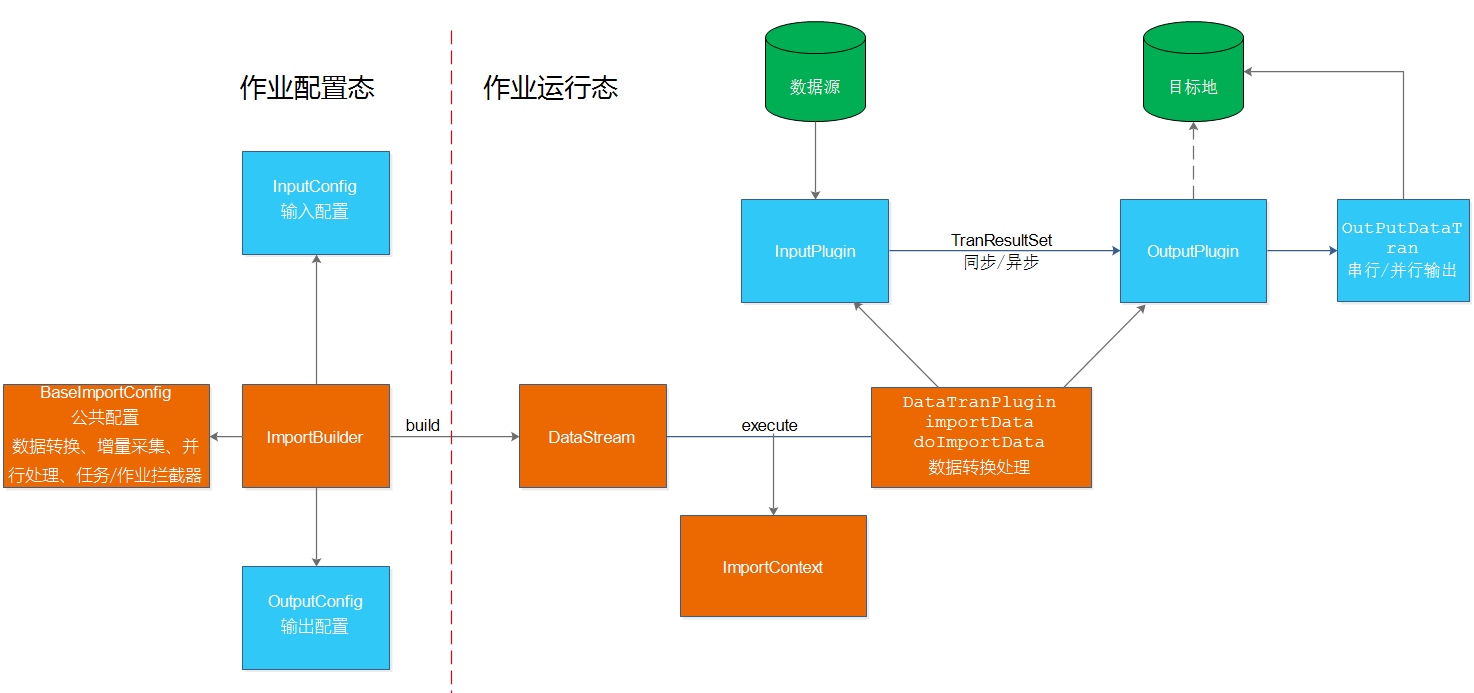
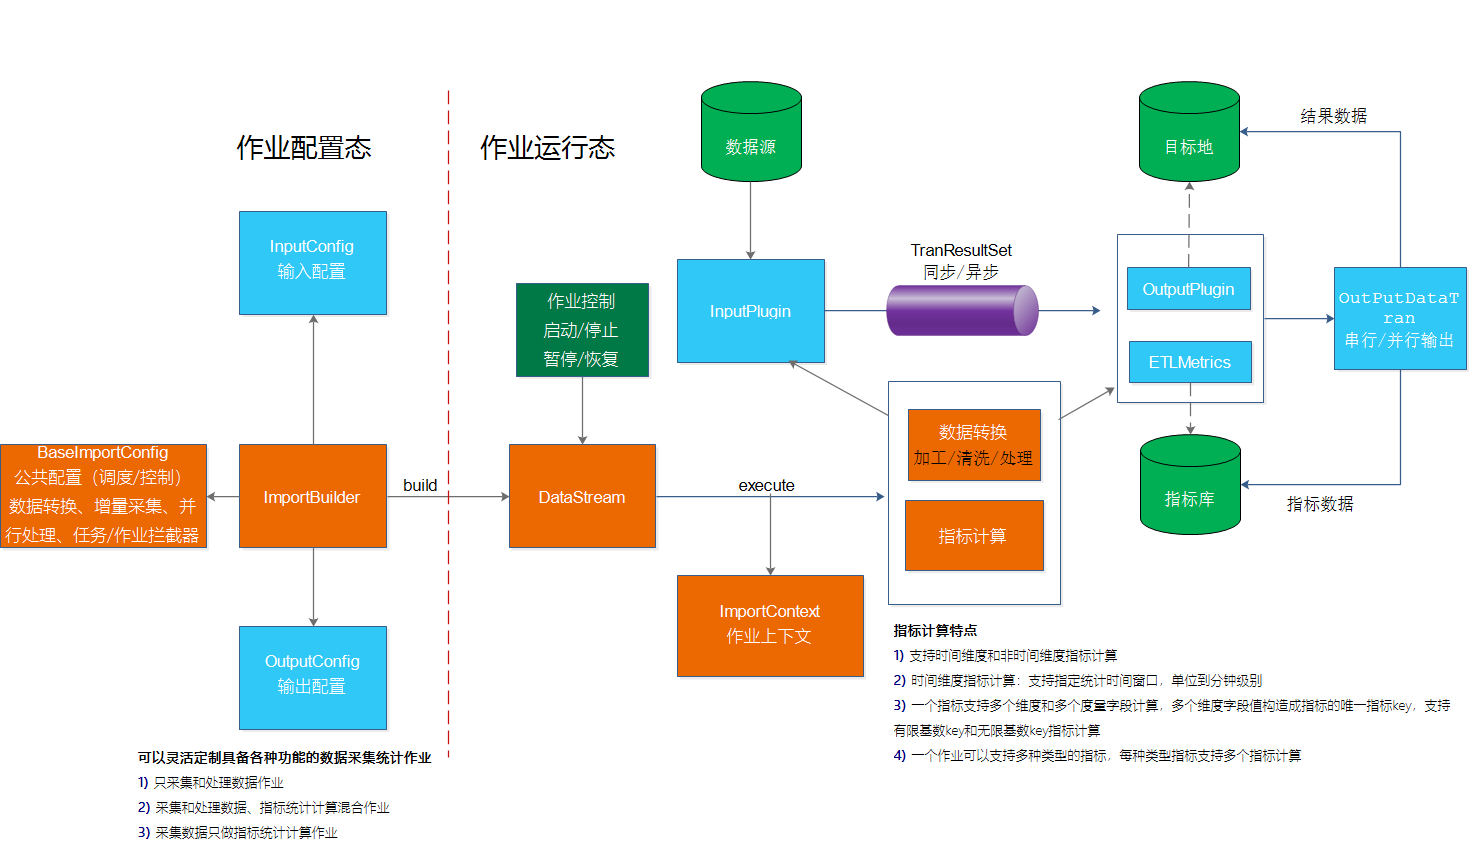
完善批处理器：还原jvm退出时shutdown processor，-----需要使用应用自行管理processor关闭功能 改进指标计算插件

diff --git a/bboss-elasticsearch-rest/src/main/java/org/frameworkset/elasticsearch/bulk/BulkProcessor.java b/bboss-elasticsearch-rest/src/main/java/org/frameworkset/elasticsearch/bulk/BulkProcessor.java
@@ -19,6 +19,7 @@ import org.frameworkset.elasticsearch.ElasticSearchHelper;
 import org.frameworkset.elasticsearch.client.ClientInterface;
 import org.frameworkset.elasticsearch.client.ClientOptions;
 import org.frameworkset.util.concurrent.ThreadPoolFactory;
+import org.frameworkset.util.shutdown.ShutdownUtil;
 import org.slf4j.Logger;
 import org.slf4j.LoggerFactory;
 
@@ -107,12 +108,12 @@ public class BulkProcessor {
                 flush = new Flush("Elasticsearch[" + (bulkConfig.getElasticsearch() != null ? bulkConfig.getElasticsearch() : "default") + "]-" + bulkConfig.getBulkProcessorName() + "-flush-thread");
                 flush.start();
             }
-//            ShutdownUtil.addShutdownHook(new Runnable() {
-//                @Override
-//                public void run() {
-//                    shutDown();
-//                }
-//            });
+            ShutdownUtil.addShutdownHook(new Runnable() {
+                @Override
+                public void run() {
+                    shutDown();
+                }
+            });
             this.inited = true;
         }
 	}

diff --git a/docs/db-es-tool.md b/docs/db-es-tool.md
@@ -14,13 +14,34 @@
 
 # 工具特性
 
-	bboss-datatran由 [bboss ](https://www.bbossgroups.com)开源的数据采集同步ETL工具，提供数据采集、数据清洗转换处理和数据入库功能。	bboss-datatran 数据同步作业直接采用java语言开发，小巧而精致，同时又可以采用java提供的所有功能和现有组件框架，随心所欲地处理和加工海量存量数据、实时增量数据；可以根据数据规模及同步性能要求，按需配置和调整数据采集同步作业所需内存、工作线程、线程队列大小；可以将作业独立运行，亦可以将作业嵌入基于java开发的各种应用一起运行；提供了作业任务控制API、作业监控api，支持作业启动、暂停(pause)、继续（resume）、停止控制机制，可轻松定制一款属于自己的ETL管理工具。
+	bboss-datatran由 [bboss ](https://www.bbossgroups.com)开源的数据采集同步ETL工具，提供数据采集、数据清洗转换处理和数据入库以及数据指标统计计算流批一体化处理功能。	
+
+	bboss-datatran 数据同步作业直接采用java语言开发，小巧而精致，同时又可以采用java提供的所有功能和现有组件框架，随心所欲地处理和加工海量存量数据、实时增量数据，实现流批一体数据处理功能；可以根据数据规模及同步性能要求，按需配置和调整数据采集同步作业所需内存、工作线程、线程队列大小；可以将作业独立运行，亦可以将作业嵌入基于java开发的各种应用一起运行；提供了作业任务控制API、作业监控api，支持作业启动、暂停(pause)、继续（resume）、停止控制机制，可轻松定制一款属于自己的ETL管理工具。
+
+工具可以灵活定制具备各种功能的数据采集统计作业
+
+1) 只采集和处理数据作业
+
+2) 采集和处理数据、指标统计计算混合作业
+
+3) 采集数据只做指标统计计算作业
+
+指标计算特点
+
+1) 支持时间维度和非时间维度指标计算
+
+2) 时间维度指标计算：支持指定统计时间窗口，单位到分钟级别
+
+3) 一个指标支持多个维度和多个度量字段计算，多个维度字段值构造成指标的唯一指标key，支持有限基数key和无限基数key指标计算   
+
+4) 一个作业可以支持多种类型的指标，每种类型指标支持多个指标计算
 
 如果您还在：
 
 - 苦于 logstash、flume、filebeat 之类的开源工具无法满足复杂的、海量数据自定义加工处理场景；
 - 苦于无法调用企业现有服务和库来处理加工数据；
 - 苦于因项目投入有限、进度紧，急需一款功能强大、上手快、实施简单的数据交换工具
+- 苦于寻求数据采集和流批一体数据处理和指标统计计算于一体的数据处理计算框架
 
 那么 [bboss-datatran](http://www.oschina.net/action/GoToLink?url=https%3A%2F%2Fesdoc.bbossgroups.com%2F%23%2Fdb-es-tool) 将是一个不错的选择。
 
@@ -113,6 +134,7 @@ https://gitee.com/bboss/db-elasticsearch-tool
 | [CustomOupputConfig](https://gitee.com/bboss/bboss-elastic-tran/blob/master/bboss-datatran-core/src/main/java/org/frameworkset/tran/plugin/custom/output/CustomOupputConfig.java) | 自定义输出插件        | 提供自定义处理采集数据功能，可以按照自己的要求将采集的数据处理到目的地，如需定制化将数据保存到特定的地方，可自行实现CustomOutPut接口处理即可 |
 | [MongoDBOutputConfig](https://gitee.com/bboss/bboss-elastic-tran/blob/master/bboss-datatran-mongodb/src/main/java/org/frameworkset/tran/plugin/mongodb/output/MongoDBOutputConfig.java) | MongoDB输出插件       | 提供MongoDB地址和连接参数配置，输出db和collection配置        |
 | [HBaseOutputConfig](https://gitee.com/bboss/bboss-elastic-tran/blob/master/bboss-datatran-hbase/src/main/java/org/frameworkset/tran/plugin/hbase/output/HBaseOutputConfig.java) | HBase输出插件         | HBase地址和连接参数配置，hbase输出表配置，hbase列簇和列及对应的源字段映射配置 |
+| [MetricsOutputConfig](https://gitee.com/bboss/bboss-elastic-tran/blob/master/bboss-datatran-core/src/main/java/org/frameworkset/tran/plugin/metrics/output/MetricsOutputConfig.java) | 指标统计插件          | 提供指标计算规则配置：ETLMetrics、时间维度字段配置等         |
 | [DummyOutputConfig](https://gitee.com/bboss/bboss-elastic-tran/blob/master/bboss-datatran-core/src/main/java/org/frameworkset/tran/plugin/dummy/output/DummyOutputConfig.java) | dummy插件             | 调试作业使用，将采集的数据直接输出到控制台                   |
 
 ## 作业基础配置
@@ -134,8 +156,8 @@ importBuilder.setJobName("流失数据挖掘");
 | addJobDynamicInputParam  | 方法                | 为查询类作业添加额外的动态查询条件参数importBuilder.addJobDynamicInputParam("signature", new DynamicParam() {//根据数据动态生成签名参数    @Override    public Object getValue(String paramName, DynamicParamContext dynamicParamContext) {        //可以根据自己的算法对数据进行签名       String signature =md5(datas)       return signature;    } }); |
 | addJobOutputParam        | 方法                | 为输出插件作业dsl脚本或者sql添加额外的变量参数importBuilder.addJobOutputParam("otherParam","陈雨菲2:0战胜戴资颖"); |
 | addJobDynamicOutputParam | 方法                | 为输出插件作业dsl脚本或者sql添加额外的动态变量参数importBuilder.addJobDynamicOutputParam("signature", new DynamicParam() {//根据数据动态生成签名参数    @Override    public Object getValue(String paramName, DynamicParamContext dynamicParamContext) {        //可以根据自己的算法对数据进行签名       String signature =md5(datas)       return signature;    } }); |
-| UseJavaName              | boolean             | 可选项,将数据库字段名称转换为java驼峰规范的名称，true转换，false不转换，默认false，例如:doc_id -> docId |
-| UseLowcase               | boolean             | 可选项，true 列名称转小写，false列名称不转换小写，默认false，只要在UseJavaName为false的情况下，配置才起作用 |
+| useJavaName              | boolean             | 可选项,将数据库字段名称转换为java驼峰规范的名称，true转换，false不转换，默认false，例如:doc_id -> docId |
+| useLowcase               | boolean             | 可选项，true 列名称转小写，false列名称不转换小写，默认false，只要在UseJavaName为false的情况下，配置才起作用 |
 | PrintTaskLog             | boolean             | 可选项，true 打印任务执行日志（耗时，处理记录数） false 不打印，默认值false |
 | FixedRate                | boolean             | 参考jdk timer task文档对fixedRate的说明                      |
 | DeyLay                   | long                | 任务延迟执行deylay毫秒后执行                                 |
@@ -162,6 +184,16 @@ importBuilder.setJobName("流失数据挖掘");
 | builder                  | 方法                | 构建DataStream 执行数据库表数据导入es操作  ： DataStream dataStream = importBuilder.builder(); dataStream.execute();//执行导入操作 |
 | jobId                    | String              | 可选，设置作业唯一标识                                       |
 | jobName                  | String              | 可选，设置作业名称                                           |
+
+## 关键对象说明
+
+Context --数据处理接口，存放源表字段和对应的值，中间临时变量和值，可以通过源表字段名称获取对应的字段数据。增量字段名称、sql或者dsl中的增量字段变量名称，都需与源表字段名称一致。context接口还提供了丢弃记录、添加字段、去除字段、字段名称映射规则配置功能、获取记录元数据功能
+
+CommonRecord - 封装处理后的结果记录，字段名称是经过规范化处理后的字段名称，字段名称的转换和处理主要受作业控制参数useJavaName和useLowcase控制，同时也受字段名称映射规则配置影响:
+
+importbuilder.addFieldMapping方法和context.addFieldMapping
+
+
 
 本文主要以关系数据库表同步到Elasticsearch为案例介绍bboss datatran的功能.
 

diff --git a/docs/changelog.md b/docs/changelog.md
@@ -45,20 +45,32 @@ https://esdoc.bbossgroups.com/#/development
 ```
 # v6.8.1 功能改进
 1. FTP文件[输入](https://esdoc.bbossgroups.com/#/filelog-guide?id=_7ftp%e9%87%87%e9%9b%86%e9%85%8d%e7%bd%ae)/[输出](https://esdoc.bbossgroups.com/#/elasticsearch-sftp?id=_34-sftpftp%e9%85%8d%e7%bd%ae)插件改进：ftp/sftp协议增加socketTimeout配置，sftp协议增加connectionTimeout配置
+
 2. FTP输出插件改进：增加生成文件[异常上传FTP机制](https://esdoc.bbossgroups.com/#/elasticsearch-sftp?id=_34-sftpftp%e9%85%8d%e7%bd%ae)，默认同步发送。数据量比较多，同时切割文件的情况下，启用异步发送文件，会显著提升数据采集同步性能
+
 3. 数据采集重大功能扩展：增加指标计算输出插件，提供指标统计分析功能，在采集和处理数据时，同时对数据进行大数据指标统计聚合计算，可以将聚合计算结果保存的各种指标数据库：Eleasticsearch/Mongodb/HBase/Clickhouse/Doris/DB(Oracle、Mysql、postgresql、sqlserver等主流关系数据库)
    
+   
+   
    可以灵活定制具备各种功能的数据采集统计作业
+   
    1) 只采集和处理数据作业
+   
    2) 采集和处理数据、指标统计计算混合作业
+   
    3) 采集数据只做指标统计计算作业
    
-   指标计算特点
-   1) 支持时间维度和非时间维度指标计算
-   2) 时间维度指标计算：支持指定统计时间窗口，单位到分钟级别
-   3) 一个指标支持多个维度和多个度量字段计算，多个维度字段值构造成指标的唯一指标key，支持有限基数key和无限基数key指标计算   
-   4) 一个作业可以支持多种类型的指标，每种类型指标支持多个指标计算
    
+   
+   指标计算特点
+   
+   1) 支持时间维度和非时间维度指标计算
+   
+   2) 时间维度指标计算：支持指定统计时间窗口，单位到分钟级别
+   
+   3) 一个指标支持多个维度和多个度量字段计算，多个维度字段值构造成指标的唯一指标key，支持有限基数key和无限基数key指标计算   
+   
+   4) 一个作业可以支持多种类型的指标，每种类型指标支持多个指标计算
 
 # v6.8.0 功能改进
 1. 去除Elasticsearch和http数据源jvm退出机制，避免因jvm退出时，数据源获取空指针问题
@@ -472,6 +484,7 @@ xxl job 2x案例工程
 https://github.com/bbossgroups/db-elasticsearch-xxjob2x
 4. 文件采集插件改进：FileConfig/FtpFileConfig增加忽略文件开始行数设置,0或者小于0不起作用
                   
+              
               
               
               
